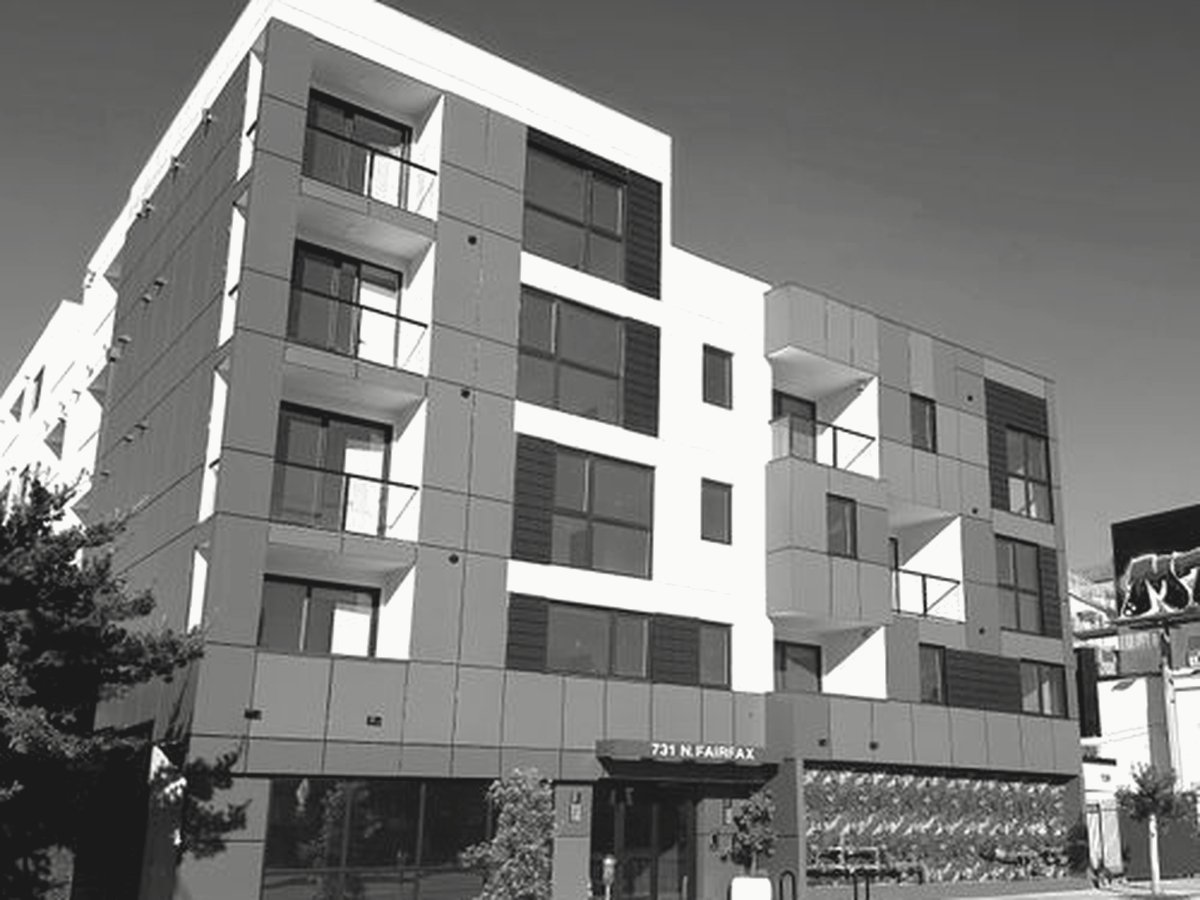
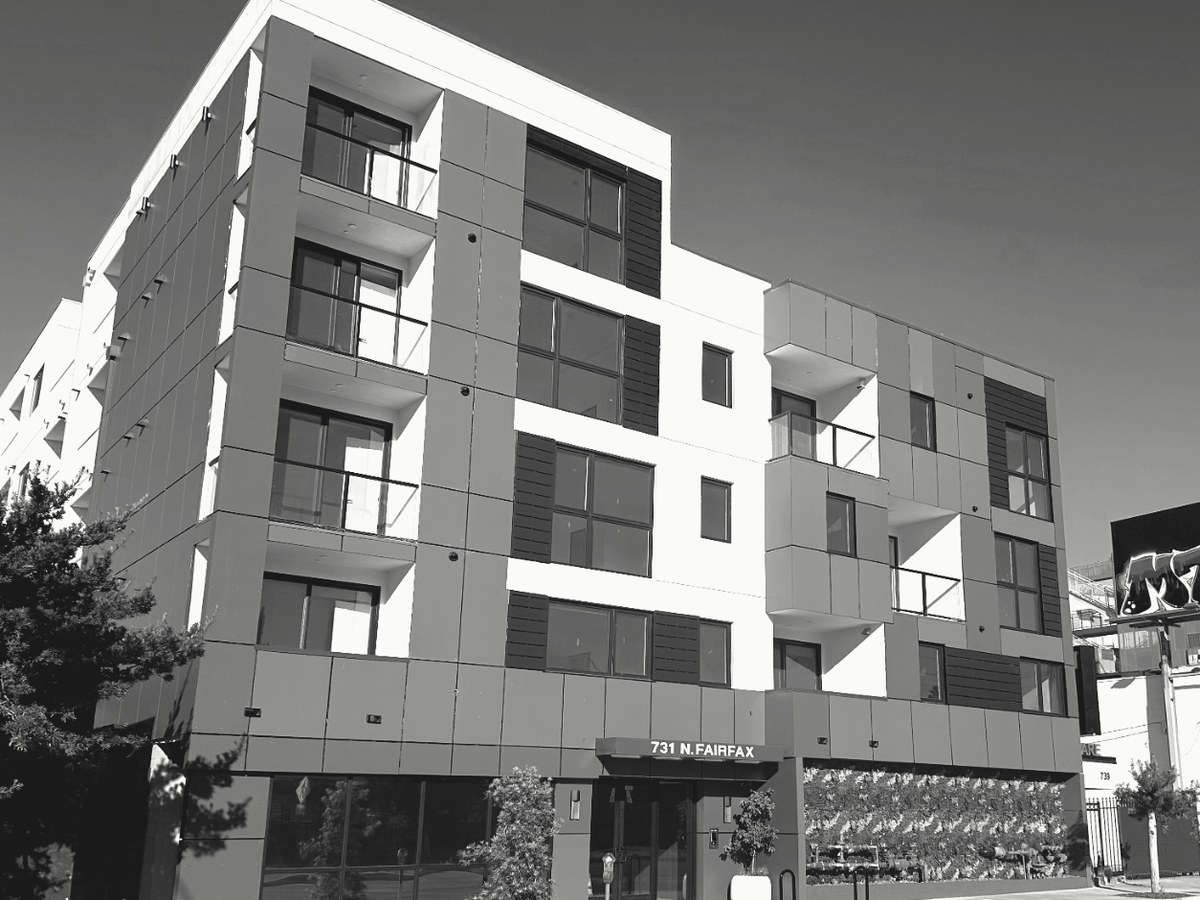
Homepage: add real Felix + Olympic photos to project section (P-01, P-02)
- Swapped the Felix photo for the cleaner IMG_7063 shot (no billboard, crisper angle, 731 N Fairfax address visible)
- Replaced placeholder frames on homepage's Projects section with real building photos
- Added .p-photo / .p-cap styles (3:2 ratio, ink border, mono caption bar)

diff --git a/index.html b/index.html
@@ -387,6 +387,9 @@
   line-height: 1; letter-spacing: -0.02em; margin: 0;
 }
 .project .f-wrap { margin-top: 20px; }
+.p-photo { margin: 20px 0 0; border: 1px solid var(--ink); overflow: hidden; background: var(--bg-alt); }
+.p-photo img { display: block; width: 100%; height: auto; aspect-ratio: 3/2; object-fit: cover; }
+.p-cap { display: block; font-family: var(--mono); font-size: 10px; letter-spacing: 0.14em; text-transform: uppercase; color: var(--muted); padding: 10px 12px; border-top: 1px dotted var(--rule); background: var(--bg); }
 .project dl {
   margin: 24px 0 0;
   padding-top: 20px;
@@ -912,10 +915,10 @@
           <h3>The Felix on Fairfax</h3>
           <span class="cat">Multifamily · Ground-up</span>
         </header>
-        <div class="f-wrap frame frame-ratio-3-2">
-          <div class="frame-corner"></div>
-          <div class="frame-label">Exterior — south elevation, Fairfax Avenue</div>
-        </div>
+        <figure class="p-photo">
+          <img src="/images/projects/felix-fairfax-1200.jpg" alt="The Felix on Fairfax — a five-story grey-and-white multifamily building at 731 N Fairfax Avenue, Los Angeles." loading="lazy" width="1200" height="675" />
+          <figcaption class="p-cap">Exterior — south elevation · 731 N Fairfax Avenue</figcaption>
+        </figure>
         <dl>
           <div><dt>Units</dt><dd>43</dd></div>
           <div><dt>Stories</dt><dd>5</dd></div>
@@ -931,10 +934,10 @@
           <h3>Olympic Towers</h3>
           <span class="cat">Condominium · Twelve Homes</span>
         </header>
-        <div class="f-wrap frame frame-ratio-3-2">
-          <div class="frame-corner"></div>
-          <div class="frame-label">Exterior — corner elevation, Olympic Boulevard</div>
-        </div>
+        <figure class="p-photo">
+          <img src="/images/projects/olympic-towers-1200.jpg" alt="Olympic Towers — a four-story white multifamily building with orange accent bands and cantilevered balconies, Mid-City West." loading="lazy" width="1200" height="675" />
+          <figcaption class="p-cap">Exterior — corner elevation · Olympic Boulevard</figcaption>
+        </figure>
         <dl>
           <div><dt>Units</dt><dd>12</dd></div>
           <div><dt>Type</dt><dd>Condo</dd></div>
